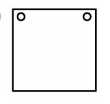
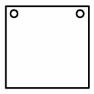
modified question-1 spatial images better, added timer for both paper folding tests

Changed region(s): [[0.0426, 0.0426, 0.9574, 0.9574], [0.0, 0.1277, 0.0213, 0.1915]]

diff --git a/front-end/src/pages/paper-folding-test-part-1.js b/front-end/src/pages/paper-folding-test-part-1.js
@@ -1,20 +1,37 @@
 import React, { useState } from "react";
 import { useNavigate } from "react-router-dom";
-import Part1Question1Image from '../images/fl-paper-folding-test/part-1-3-minutes/questions/part-1-question-1.png'; // Import Part 1 Question 1 image
-import Part1Question2Image from '../images/fl-paper-folding-test/part-1-3-minutes/questions/part-1-question-2.png'; // Import Part 1 Question 2 image
-import Part1Question3Image from '../images/fl-paper-folding-test/part-1-3-minutes/questions/part-1-question-3.png'; // Import Part 1 Question 3 image
-import Part1Question4Image from '../images/fl-paper-folding-test/part-1-3-minutes/questions/part-1-question-4.png'; // Import Part 1 Question 4 image
-import Part1Question5Image from '../images/fl-paper-folding-test/part-1-3-minutes/questions/part-1-question-5.png'; // Import Part 1 Question 5 image
-import Part1Question6Image from '../images/fl-paper-folding-test/part-1-3-minutes/questions/part-1-question-6.png'; // Import Part 1 Question 6 image
-import Part1Question7Image from '../images/fl-paper-folding-test/part-1-3-minutes/questions/part-1-question-7.png'; // Import Part 1 Question 7 image
-import Part1Question8Image from '../images/fl-paper-folding-test/part-1-3-minutes/questions/part-1-question-8.png'; // Import Part 1 Question 8 image
+
+import Part1Question1 from '../images/fl-paper-folding-test/part-1-3-minutes/question-1/part-1-question-1.png'; // Import Part 1 Question 1 image
+import Part1Question1Answer1Option1 from '../images/fl-paper-folding-test/part-1-3-minutes/question-1/answers-1/answer-1-option-1.png'; // Import Part 1 Question 1 image
+import Part1Question1Answer1Option2 from '../images/fl-paper-folding-test/part-1-3-minutes/question-1/answers-1/answer-1-option-2.png'; // Import Part 1 Question 1 image
+import Part1Question1Answer1Option3 from '../images/fl-paper-folding-test/part-1-3-minutes/question-1/answers-1/answer-1-option-3.png'; // Import Part 1 Question 1 image
+import Part1Question1Answer1Option4 from '../images/fl-paper-folding-test/part-1-3-minutes/question-1/answers-1/answer-1-option-4.png'; // Import Part 1 Question 1 image
+import Part1Question1Answer1Option5 from '../images/fl-paper-folding-test/part-1-3-minutes/question-1/answers-1/answer-1-option-5.png'; // Import Part 1 Question 1 image
+
+import Part1Question2 from '../images/fl-paper-folding-test/part-1-3-minutes/questions/part-1-question-2.png'; // Import Part 1 Question 2 image
+import Part1Question3 from '../images/fl-paper-folding-test/part-1-3-minutes/questions/part-1-question-3.png'; // Import Part 1 Question 3 image
+import Part1Question4 from '../images/fl-paper-folding-test/part-1-3-minutes/questions/part-1-question-4.png'; // Import Part 1 Question 4 image
+import Part1Question5 from '../images/fl-paper-folding-test/part-1-3-minutes/questions/part-1-question-5.png'; // Import Part 1 Question 5 image
+import Part1Question6 from '../images/fl-paper-folding-test/part-1-3-minutes/questions/part-1-question-6.png'; // Import Part 1 Question 6 image
+import Part1Question7 from '../images/fl-paper-folding-test/part-1-3-minutes/questions/part-1-question-7.png'; // Import Part 1 Question 7 image
+import Part1Question8 from '../images/fl-paper-folding-test/part-1-3-minutes/questions/part-1-question-8.png'; // Import Part 1 Question 8 image
 import '../components/styles_css/ImageStyles.css';
+import '../components/styles_css/RadioButtonImage.css';
+import Timer from "../components/Timer"; 
 
 const PaperFoldingPart1Questions = () => {
     const navigate = useNavigate();
 
-    const handleNext = () => {
-        navigate("/paper-folding-test-part-2");
+    // State to manage timer visibility
+    const [timerVisible, setTimerVisible] = useState(true);
+
+    // const handleNext = () => {
+    //     navigate("/paper-folding-test-part-2");
+    // };
+
+    const handleTimerCompletion = () => {
+        // setTimerVisible(false); 
+        navigate("/paper-folding-test-part-2"); //if a breather is needed in between we can add it 
     };
 
     return (
@@ -25,34 +42,61 @@ const PaperFoldingPart1Questions = () => {
             <br />
             <h3>This is a timed 3-minute test.</h3>
             <br />
+            {timerVisible && <Timer initialTime={180} onCompletion={handleTimerCompletion} />}
+            {/* <img src={Part1Question1} alt="Part1 Question1" /> */}
+            <img src={Part1Question1} alt="Part1 Question1" />
+            <div className="radio-container">
+                <input type="radio" id="Part1Question1Answer1Option1" name="Part1Question1Answer1"/>
+                <label htmlFor="Part1Question1Answer1Option1">
+                    <img src={Part1Question1Answer1Option1} alt="Part1Question1Answer1Option1" />
+                </label>
+                <br />
+                <input type="radio" id="Part1Question1Answer1Option2" name="Part1Question1Answer1"/>
+                <label htmlFor="Part1Question1Answer1Option2">
+                    <img src={Part1Question1Answer1Option2} alt="Part1Question1Answer1Option2" />
+                </label>
+                <br />
+                <input type="radio" id="Part1Question1Answer1Option3" name="Part1Question1Answer1"/>
+                <label htmlFor="Part1Question1Answer1Option3">
+                    <img src={Part1Question1Answer1Option3} alt="Part1Question1Answer1Option3" />
+                </label>
+                <br />
+                <input type="radio" id="Part1Question1Answer1Option4" name="Part1Question1Answer1"/>
+                <label htmlFor="Part1Question1Answer1Option4">
+                    <img src={Part1Question1Answer1Option4} alt="Part1Question1Answer1Option4" />
+                </label>
+                <br />
+                <input type="radio" id="Part1Question1Answer1Option5" name="Part1Question1Answer1"/>
+                <label htmlFor="Part1Question1Answer1Option5">
+                    <img src={Part1Question1Answer1Option5} alt="Part1Question1Answer1Option5" />
+                </label>
+            </div>
             <br />
-            <img src={Part1Question1Image} alt="Part1 Question1 Image" />
+            <br />
+            <img src={Part1Question2} alt="Part1 Question2" />
             <br />
             <br />
-            <img src={Part1Question2Image} alt="Part1 Question2 Image" />
+            <img src={Part1Question3} alt="Part1 Question3" />
             <br />
             <br />
-            <img src={Part1Question3Image} alt="Part1 Question3 Image" />
+            <img src={Part1Question4} alt="Part1 Question4" />
             <br />
             <br />
-            <img src={Part1Question4Image} alt="Part1 Question4 Image" />
+            <img src={Part1Question5} alt="Part1 Question5" />
             <br />
             <br />
-            <img src={Part1Question5Image} alt="Part1 Question5 Image" />
+            <img src={Part1Question6} alt="Part1 Question6" />
             <br />
             <br />
-            <img src={Part1Question6Image} alt="Part1 Question6 Image" />
+            <img src={Part1Question7} alt="Part1 Question7" />
             <br />
             <br />
-            <img src={Part1Question7Image} alt="Part1 Question7 Image" />
-            <br />
-            <br />
-            <img src={Part1Question8Image} alt="Part1 Question8 Image" />
+            <img src={Part1Question8} alt="Part1 Question8" />
             <br />
             <br />
           
             {/* Next button */}
-            <button className="button" onClick={handleNext}> Next </button>
+            {/* <button className="button" onClick={handleNext}> Next </button> */}
         </div>
     );
 };

diff --git a/front-end/src/pages/paper-folding-test-part-2.js b/front-end/src/pages/paper-folding-test-part-2.js
@@ -1,24 +1,31 @@
-import React from "react";
+import React, { useState } from "react";
 import { useNavigate } from "react-router-dom";
 import '../components/styles_css/InstructionsAndConsent.css'; 
 import Part2Question1Image from '../images/fl-paper-folding-test/part-2-3-minutes/questions/part-2-question-1.png'; // Import Part 2 Question 1 image
-import Part1Question2Image from '../images/fl-paper-folding-test/part-2-3-minutes/questions/part-2-question-2.png'; // Import Part 1 Question 2 image
-import Part1Question3Image from '../images/fl-paper-folding-test/part-2-3-minutes/questions/part-2-question-3.png'; // Import Part 1 Question 3 image
-import Part1Question4Image from '../images/fl-paper-folding-test/part-2-3-minutes/questions/part-2-question-4.png'; // Import Part 1 Question 4 image
-import Part1Question5Image from '../images/fl-paper-folding-test/part-2-3-minutes/questions/part-2-question-5.png'; // Import Part 1 Question 5 image
-import Part1Question6Image from '../images/fl-paper-folding-test/part-2-3-minutes/questions/part-2-question-6.png'; // Import Part 1 Question 6 image
-import Part1Question7Image from '../images/fl-paper-folding-test/part-2-3-minutes/questions/part-2-question-7.png'; // Import Part 1 Question 7 image
-import Part1Question8Image from '../images/fl-paper-folding-test/part-2-3-minutes/questions/part-2-question-8.png'; // Import Part 1 Question 8 image
-import Part1Question9Image from '../images/fl-paper-folding-test/part-2-3-minutes/questions/part-2-question-9.png'; // Import Part 1 Question 9 image
-import Part1Question10Image from '../images/fl-paper-folding-test/part-2-3-minutes/questions/part-2-question-10.png'; // Import Part 1 Question 10 image
+import Part2Question2Image from '../images/fl-paper-folding-test/part-2-3-minutes/questions/part-2-question-2.png'; // Import Part 1 Question 2 image
+import Part2Question3Image from '../images/fl-paper-folding-test/part-2-3-minutes/questions/part-2-question-3.png'; // Import Part 1 Question 3 image
+import Part2Question4Image from '../images/fl-paper-folding-test/part-2-3-minutes/questions/part-2-question-4.png'; // Import Part 1 Question 4 image
+import Part2Question5Image from '../images/fl-paper-folding-test/part-2-3-minutes/questions/part-2-question-5.png'; // Import Part 1 Question 5 image
+import Part2Question6Image from '../images/fl-paper-folding-test/part-2-3-minutes/questions/part-2-question-6.png'; // Import Part 1 Question 6 image
+import Part2Question7Image from '../images/fl-paper-folding-test/part-2-3-minutes/questions/part-2-question-7.png'; // Import Part 1 Question 7 image
+import Part2Question8Image from '../images/fl-paper-folding-test/part-2-3-minutes/questions/part-2-question-8.png'; // Import Part 1 Question 8 image
+import Part2Question9Image from '../images/fl-paper-folding-test/part-2-3-minutes/questions/part-2-question-9.png'; // Import Part 1 Question 9 image
+import Part2Question10Image from '../images/fl-paper-folding-test/part-2-3-minutes/questions/part-2-question-10.png'; // Import Part 1 Question 10 image
 import '../components/styles_css/ImageStyles.css';
-
+import Timer from "../components/Timer"; 
 
 const PaperFoldingPart2Questions = () => {
     const navigate = useNavigate();
+    // State to manage timer visibility
+    const [timerVisible, setTimerVisible] = useState(true);
 
-    const handleNext = () => {
-        navigate("/");
+    // const handleNext = () => {
+    //     navigate("/");
+    // };
+
+    const handleTimerCompletion = () => {
+        // setTimerVisible(false); 
+        navigate("/"); //if a breather is needed in between we can add it 
     };
 
     return (
@@ -31,40 +38,40 @@ const PaperFoldingPart2Questions = () => {
                 This is a timed 3 minute test.
             </h3>
             <br></br>
-            <br></br>
-            <img src={Part2Question1Image} alt="Part 2 Question 1 Image" />
-            <br></br>
-            <br></br>
-            <img src={Part1Question2Image} alt="Part 1 Question 2 Image" />
+            {timerVisible && <Timer initialTime={180} onCompletion={handleTimerCompletion} />}
+            <img src={Part2Question1Image} alt="Part 2 Question 1" />
             <br></br>
             <br></br>
-            <img src={Part1Question3Image} alt="Part 1 Question 3 Image" />
+            <img src={Part2Question2Image} alt="Part 2 Question 2" />
             <br></br>
             <br></br>
-            <img src={Part1Question4Image} alt="Part 1 Question 4 Image" />
+            <img src={Part2Question3Image} alt="Part 2 Question 3" />
             <br></br>
             <br></br>
-            <img src={Part1Question5Image} alt="Part 1 Question 5 Image" />
+            <img src={Part2Question4Image} alt="Part 2 Question 4" />
             <br></br>
             <br></br>
-            <img src={Part1Question6Image} alt="Part 1 Question 6 Image" />
+            <img src={Part2Question5Image} alt="Part 2 Question 5" />
             <br></br>
             <br></br>
-            <img src={Part1Question7Image} alt="Part 1 Question 7 Image" />
+            <img src={Part2Question6Image} alt="Part 2 Question 6" />
             <br></br>
             <br></br>
-            <img src={Part1Question8Image} alt="Part 1 Question 8 Image" />
+            <img src={Part2Question7Image} alt="Part 2 Question 7" />
             <br></br>
             <br></br>
-            <img src={Part1Question9Image} alt="Part 1 Question 9 Image" />
+            <img src={Part2Question8Image} alt="Part 2 Question 8" />
             <br></br>
             <br></br>
-            <img src={Part1Question10Image} alt="Part 1 Question 10 Image" />
+            <img src={Part2Question9Image} alt="Part 2 Question 9" />
+            <br></br>
+            <br></br>
+            <img src={Part2Question10Image} alt="Part 2 Question 10" />
             <br></br>
             <br></br>
             <br></br>
             <br></br>
-            <button className="button" onClick={handleNext}> Next </button>
+            {/* <button className="button" onClick={handleNext}> Next </button> */}
         </div>
     );
 };

diff --git a/front-end/src/components/styles_css/RadioButtonImage.css b/front-end/src/components/styles_css/RadioButtonImage.css
@@ -1,0 +1,49 @@
+.radio-container {
+    display: flex;
+    flex-direction: row;
+    align-items: center; /* Align items vertically in the center */
+  }
+  
+  .radio-container label {
+    display: flex; /* Display labels as flex items */
+    flex-direction: column; /* Arrange label content vertically */
+    align-items: flex-start; /* Align label content horizontally to the left */
+    cursor: pointer;
+    margin-right: 30px;
+  }
+  
+  .radio-container input[type="radio"] {
+    opacity: 0; /* Hide the default radio buttons */
+    width: 20px; 
+    position: absolute; 
+  }
+  
+  .radio-container input[type="radio"] + label:before {
+    content: "";
+    display: block;
+    width: 20px;
+    height: 20px;
+    margin-bottom: 5px; /* Adjust spacing between radio button and image */
+    border: 2px solid #aaa;
+    border-radius: 50%;
+  }
+  
+  .radio-container input[type="radio"]:checked + label:before {
+    background-color: #2196F3;
+  }
+  
+  .radio-container input[type="radio"]:checked + label:after {
+    content: "";
+    display: block;
+    width: 10px;
+    height: 10px;
+    margin: 4px;
+    border-radius: 50%;
+    background: white;
+  }
+  
+  .radio-container label img {
+    max-width: 100px; 
+    margin-top: 10px;
+  }
+  

diff --git a/front-end/src/components/Timer.js b/front-end/src/components/Timer.js
@@ -1,0 +1,32 @@
+import React, { useState, useEffect } from 'react';
+
+const Timer = ({ initialTime = 180, onCompletion }) => {
+  const [seconds, setSeconds] = useState(initialTime);
+
+  useEffect(() => {
+    if (seconds > 0) {
+      const interval = setInterval(() => {
+        setSeconds(prevSeconds => prevSeconds - 1);
+      }, 1000);
+
+      return () => clearInterval(interval);
+    } else {
+      onCompletion(); // Call onCompletion function when timer reaches zero
+    }
+  }, [seconds, onCompletion]);
+
+  // Helper function to format seconds into MM:SS format
+  const formatTime = (totalSeconds) => {
+    const minutes = Math.floor(totalSeconds / 60);
+    const seconds = totalSeconds % 60;
+    return `${minutes}:${seconds < 10 ? '0' : ''}${seconds}`;
+  };
+
+  return (
+    <div>
+      <h3 style={{ padding: '10px 20px', borderRadius: '5px', backgroundColor: 'blue', color: 'white', border: 'none', cursor: 'default' }}>Timer:{formatTime(seconds)}</h3>
+    </div>
+  );
+};
+
+export default Timer;

diff --git a/front-end/src/components/styles_css/RadioButton.css b/front-end/src/components/styles_css/RadioButton.css
@@ -23,7 +23,6 @@
     background-color: #2196F3; /* Change background color when checked */
   }
   
-  /* Optional: add a custom indicator for the checked state */
   .radio-container input[type="radio"]:checked + label:after {
     content: "";
     display: block;
@@ -34,3 +33,6 @@
     background: white;
   }
   
+  .radio-container input[type="radio"] {
+    display: none;
+  }
